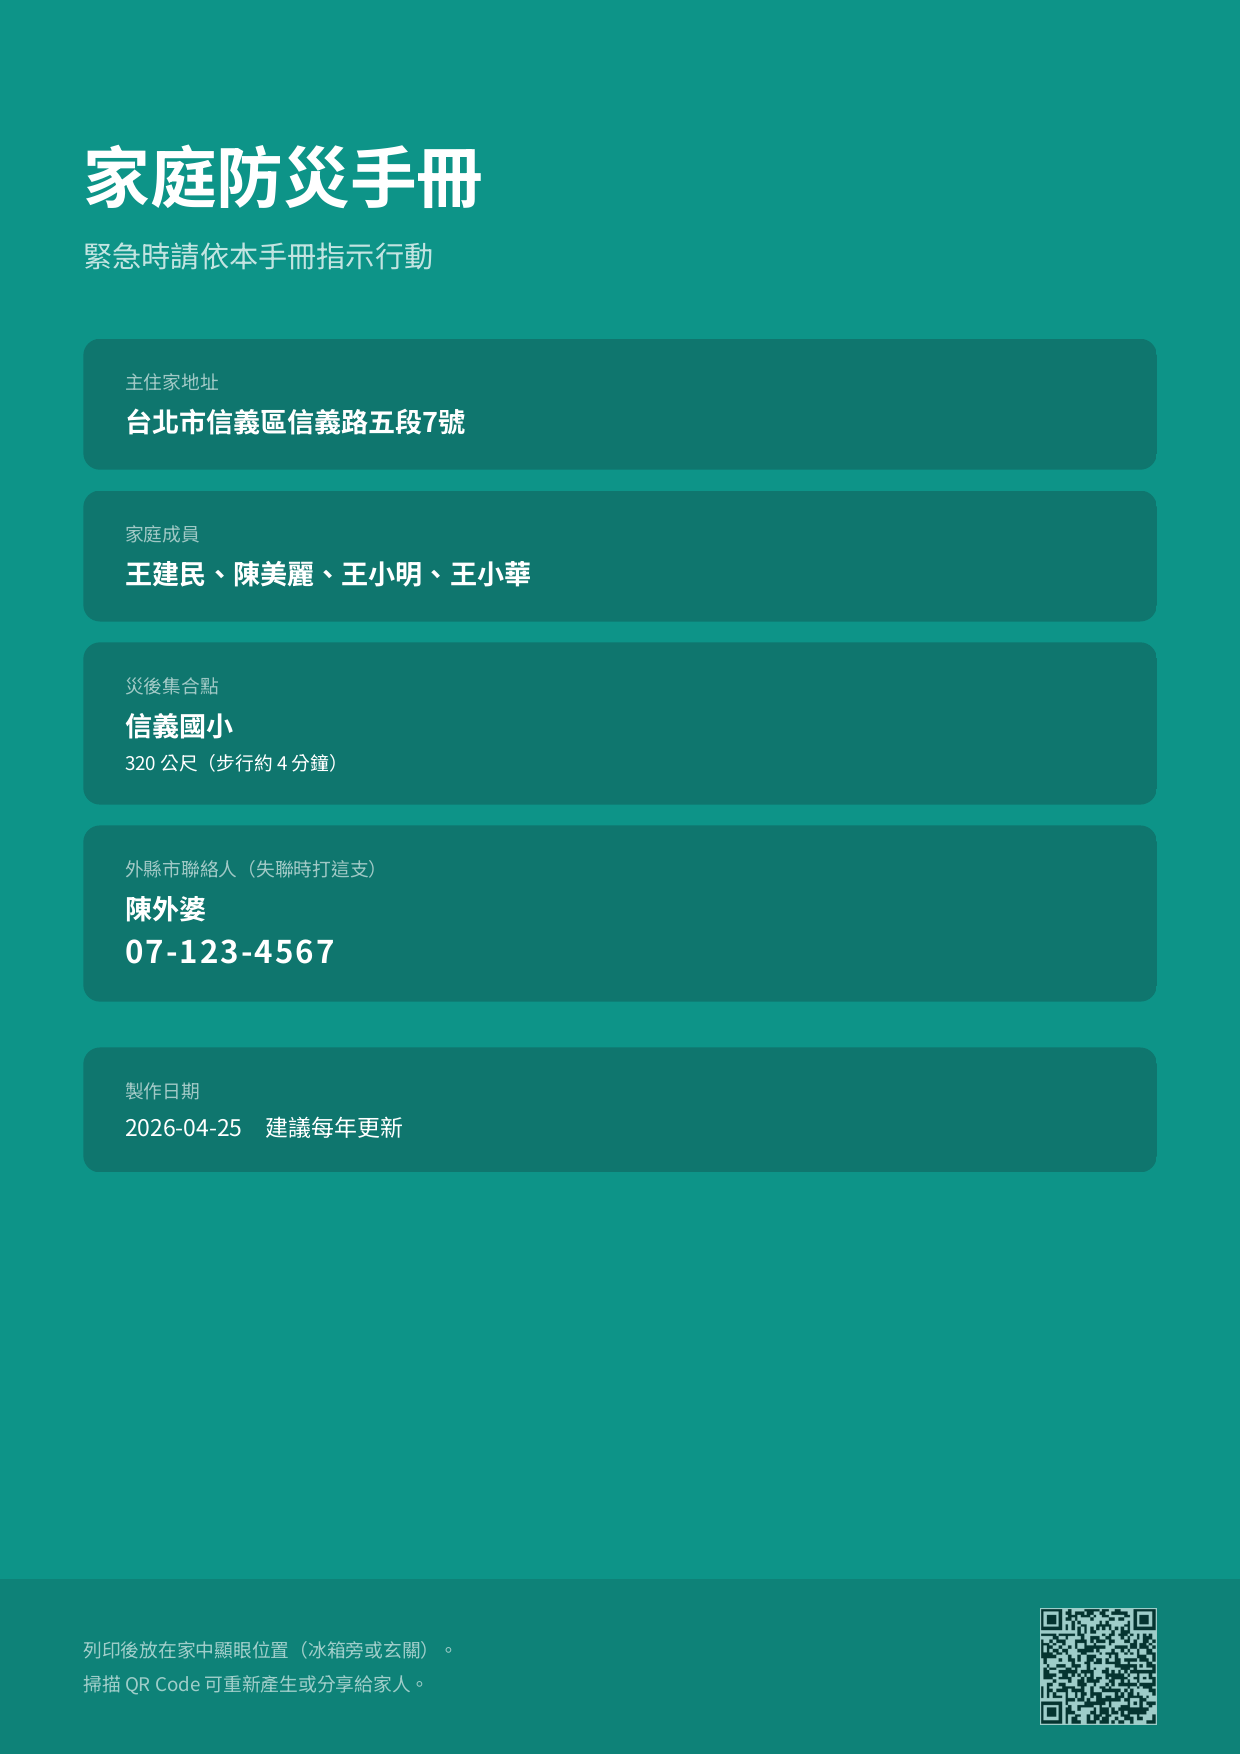
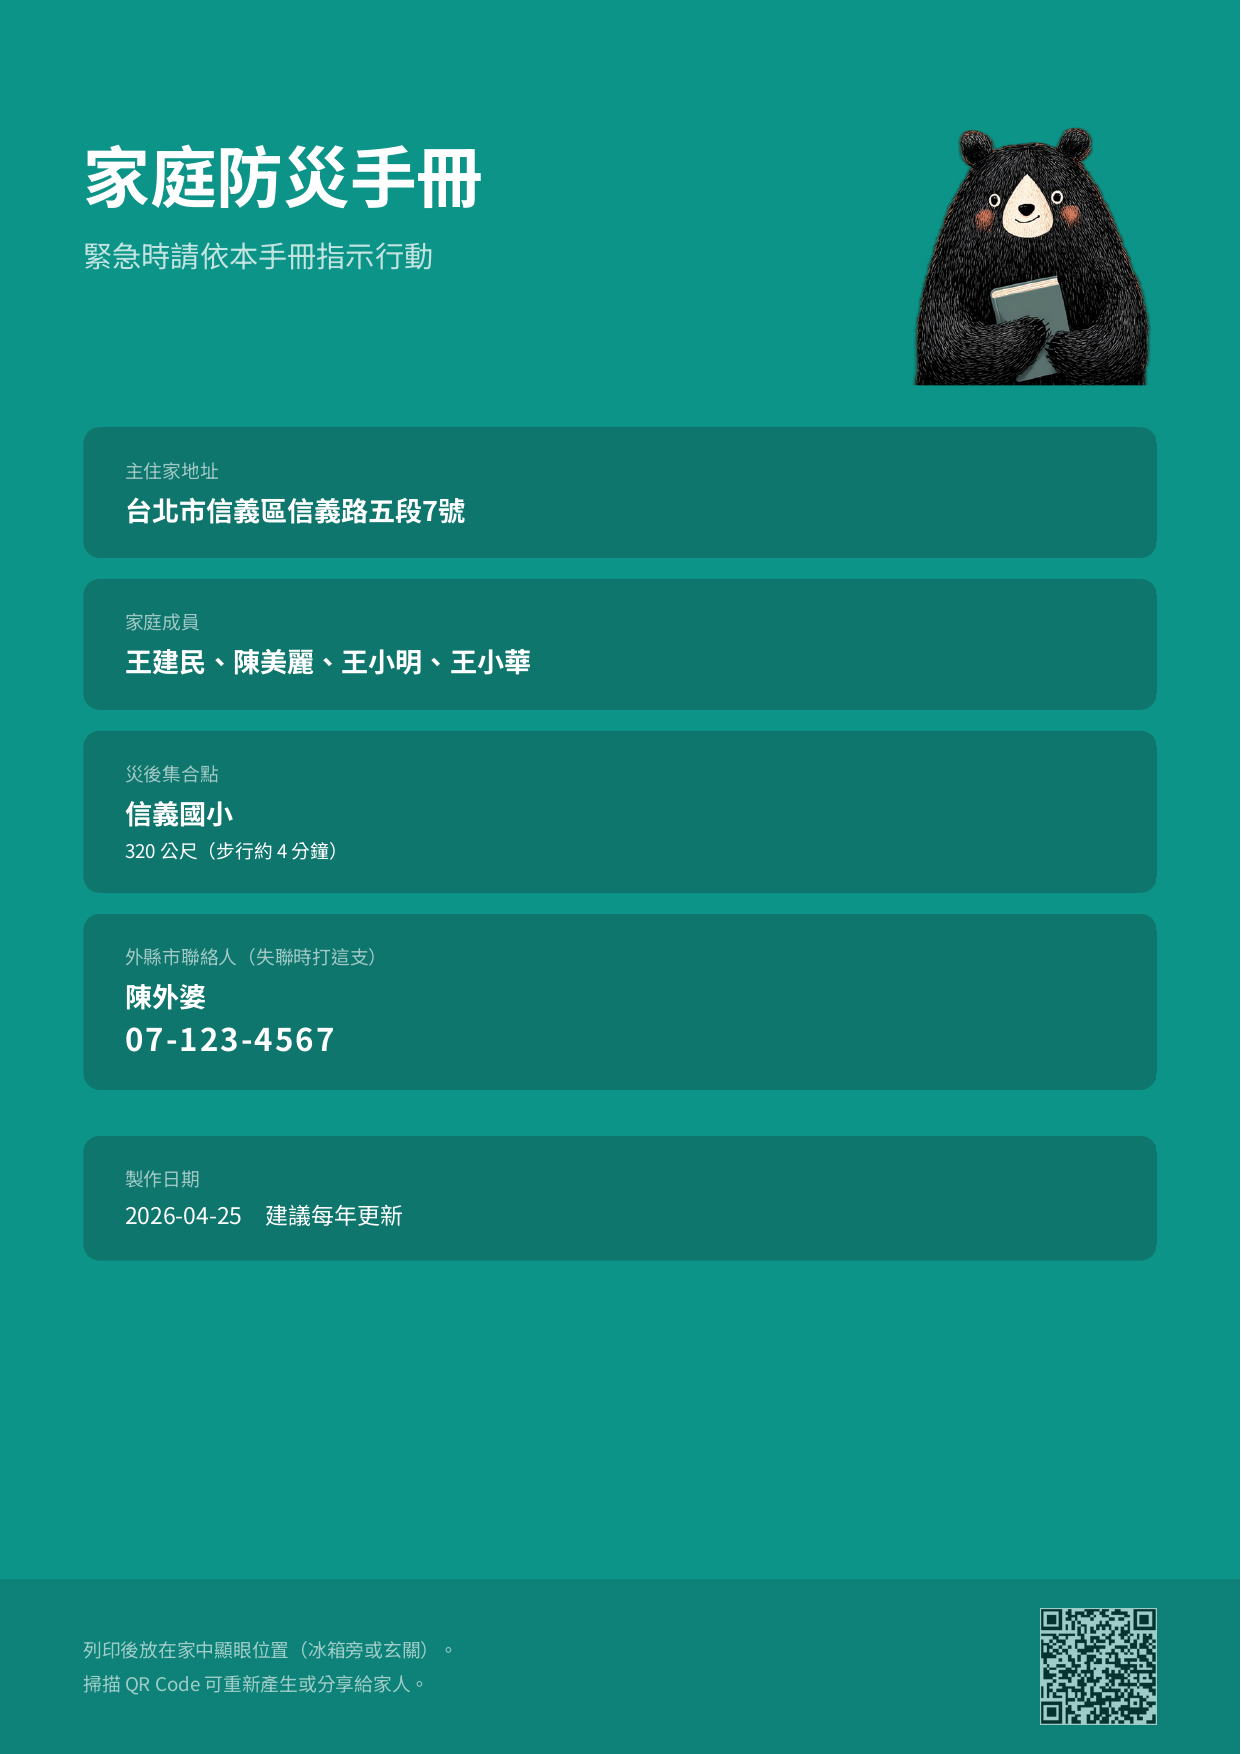
feat(pdf): Phase-2a #1 — Formosan black bear mascot on cover top-right
The PDF cover was text-only with ~30% empty space below the info boxes and
no brand anchor; visitors see the homepage bear but the downloaded handbook
had no matching identity.

- Background removed from the orange banner via rembg, cropped to the bear,
  scaled to 400px PNG (~280KB)
- Placed top-right of the cover as a 120×125pt badge alongside the title,
  not a full-width banner — reads as logo, keeps room for future artwork
- heroImage prop added to HandbookPDF; client passes the URL, scripts read
  from disk as Buffer
- pdftoppm now writes 2-digit page numbers in newer poppler, so the preview
  script finds the produced PNG by readdir instead of hard-coded filename

Changed region(s): [[0.0612, 0.0616, 0.9492, 0.7389]]

diff --git a/scripts/_review-gen-pages.tsx b/scripts/_review-gen-pages.tsx
@@ -1,21 +1,6 @@
-/**
- * Build-time PDF preview generator.
- *
- * Renders the first page (cover) of HandbookPDF with a fixed Taipei-Xinyi
- * sample household, then rasterizes it to `public/pdf-preview.png`.
- * Run manually after any PDF visual change:
- *   npm run gen:pdf-preview
- */
 import { createElement, type ReactElement } from "react";
 import { renderToBuffer, type DocumentProps } from "@react-pdf/renderer";
-import {
-  writeFile,
-  rename,
-  unlink,
-  mkdtemp,
-  readFile,
-  readdir,
-} from "node:fs/promises";
+import { writeFile, mkdtemp, readFile } from "node:fs/promises";
 import { execFile } from "node:child_process";
 import { promisify } from "node:util";
 import path from "node:path";
@@ -39,7 +24,7 @@ const members: Member[] = [
     dailyLocation: "信義區上班",
     dailyCity: "台北市",
     dailyDistrict: "信義區",
-    dailyAddress: "信義路五段7號",
+    dailyAddress: "",
     hasDifferentAddress: false,
     city: "",
     district: "",
@@ -51,8 +36,8 @@ const members: Member[] = [
     birthYear: 1987,
     bloodType: "A",
     isMobilityImpaired: false,
-    hasChronic: false,
-    medications: "",
+    hasChronic: true,
+    medications: "降血壓",
     allergies: "",
     specialNeeds: "",
     dailyLocation: "大安區上班",
@@ -74,7 +59,7 @@ const members: Member[] = [
     medications: "",
     allergies: "",
     specialNeeds: "",
-    dailyLocation: "信義國小上學",
+    dailyLocation: "信義國小",
     dailyCity: "台北市",
     dailyDistrict: "信義區",
     dailyAddress: "",
@@ -103,7 +88,6 @@ const members: Member[] = [
     address: "",
   },
 ];
-
 const contacts: EmergencyContact[] = [
   {
     name: "陳外婆",
@@ -121,7 +105,6 @@ const contacts: EmergencyContact[] = [
     isOutOfCity: false,
   },
 ];
-
 const sample: HandbookData = {
   household: {
     address: "信義路五段7號",
@@ -194,6 +177,45 @@ const sample: HandbookData = {
           phone: "02-2786-1288",
           distance: 2400,
         },
+        {
+          name: "信義診所",
+          address: "台北市信義區信義路五段100號",
+          lat: 25.034,
+          lng: 121.568,
+          type: "clinic",
+          hasER: false,
+          phone: "02-2345-6789",
+          distance: 400,
+        },
+      ],
+      aed: [
+        {
+          name: "台北101",
+          address: "台北市信義區信義路五段7號",
+          lat: 25.0336,
+          lng: 121.5645,
+          location: "1樓大廳服務台",
+          phone: "02-8101-8800",
+          distance: 50,
+        },
+      ],
+      fireStation: [
+        {
+          name: "信義分隊",
+          address: "台北市信義區松仁路79號",
+          phone: "02-2758-7119",
+          city: "台北市",
+          distance: 500,
+        },
+      ],
+      policeStation: [
+        {
+          name: "信義分局",
+          address: "台北市信義區基隆路一段126號",
+          phone: "02-2722-4252",
+          city: "台北市",
+          distance: 800,
+        },
       ],
     },
   ],
@@ -201,7 +223,6 @@ const sample: HandbookData = {
 };
 
 async function main() {
-  console.log("→ Rendering HandbookPDF to buffer...");
   const heroImage = await readFile(
     path.resolve("public/hero-bear-cutout-compact.png"),
   );
@@ -212,47 +233,15 @@ async function main() {
       heroImage,
     }) as ReactElement<DocumentProps>,
   );
-  console.log(`  PDF size: ${(pdfBuffer.length / 1024).toFixed(1)} KB`);
-
-  const tmpDir = await mkdtemp(path.join(os.tmpdir(), "pdf-preview-"));
+  console.log(`PDF size: ${(pdfBuffer.length / 1024).toFixed(1)} KB`);
+  const tmpDir = await mkdtemp(path.join(os.tmpdir(), "pdf-review-"));
   const pdfPath = path.join(tmpDir, "handbook.pdf");
-  const pngPrefix = path.join(tmpDir, "cover");
   await writeFile(pdfPath, pdfBuffer);
-
-  console.log("→ Rasterizing page 1 via pdftoppm (poppler)...");
-  try {
-    // -r 150 → ~1240px A4 width; -f 1 -l 1 → first page only
-    const { stdout, stderr } = await execFileP("pdftoppm", [
-      "-png",
-      "-r",
-      "150",
-      "-f",
-      "1",
-      "-l",
-      "1",
-      pdfPath,
-      pngPrefix,
-    ]);
-    if (stdout) console.log("  stdout:", stdout);
-    if (stderr) console.log("  stderr:", stderr);
-  } catch (err) {
-    throw new Error(
-      "pdftoppm failed. Install poppler: `brew install poppler` (macOS) or equivalent.\n" +
-        (err instanceof Error ? err.message : String(err)),
-    );
-  }
-
-  // pdftoppm numbering format varies by version (e.g., `cover-1.png` vs `cover-01.png`),
-  // so find whatever single PNG landed in the temp dir.
-  const produced = (await readdir(tmpDir)).find((f) => f.endsWith(".png"));
-  if (!produced) throw new Error(`pdftoppm produced no PNG in ${tmpDir}`);
-  const outPath = path.resolve("public/pdf-preview.png");
-  await rename(path.join(tmpDir, produced), outPath);
-  await unlink(pdfPath);
-  console.log(`✓ Wrote ${outPath}`);
+  const outPrefix = path.resolve(".design-review-20260424/pdf-pages/page");
+  await execFileP("pdftoppm", ["-png", "-r", "110", pdfPath, outPrefix]);
+  console.log("Done. See .design-review-20260424/pdf-pages/");
 }
-
-main().catch((err) => {
-  console.error("Failed to generate PDF preview:", err);
+main().catch((e) => {
+  console.error(e);
   process.exit(1);
 });

diff --git a/components/pdf/HandbookPDF.tsx b/components/pdf/HandbookPDF.tsx
@@ -119,7 +119,7 @@ const s = StyleSheet.create({
     color: "#ffffff",
     marginBottom: 6,
   },
-  coverSub: { fontSize: 14, color: "#ffffff", opacity: 0.75, marginBottom: 30 },
+  coverSub: { fontSize: 14, color: "#ffffff", opacity: 0.75, marginBottom: 20 },
   coverBox: {
     backgroundColor: "#0F766E",
     borderRadius: 8,
@@ -140,6 +140,14 @@ const s = StyleSheet.create({
     color: "#ffffff",
     opacity: 0.6,
   },
+  coverHeader: {
+    flexDirection: "row",
+    alignItems: "flex-start",
+    justifyContent: "space-between",
+    marginBottom: 20,
+  },
+  coverTitleBlock: { flex: 1, paddingRight: 12 },
+  coverHeroImage: { width: 120, height: 125 },
   // action card
   actionPage: {
     fontFamily: "NotoSansTC",
@@ -1070,10 +1078,12 @@ export default function HandbookPDF({
   data,
   mapImages,
   biMode = "zh",
+  heroImage,
 }: {
   data: HandbookData;
   mapImages?: Record<number, string>;
   biMode?: BiMode;
+  heroImage?: string | Uint8Array;
 }) {
   // eslint-disable-next-line react-hooks/globals -- @react-pdf/renderer renders synchronously; this is not a DOM re-render side effect
   _lang = biMode;
@@ -1097,23 +1107,31 @@ export default function HandbookPDF({
       {/* ─── PAGE 1: COVER ─── */}
       <Page size="A4" style={s.coverPage}>
         <View style={s.coverTop}>
-          <Text style={s.coverTitle}>{pt(biMode, "cover_title")}</Text>
-          {biMode === "bi" && (
-            <Text
-              style={[
-                s.coverSub,
-                { fontSize: 18, fontWeight: "bold", marginBottom: 4 },
-              ]}
-            >
-              Family Emergency Handbook
-            </Text>
-          )}
-          <Text style={s.coverSub}>{pt(biMode, "cover_sub")}</Text>
-          {biMode === "bi" && (
-            <Text style={[s.coverSub, { fontSize: 10 }]}>
-              {ptEn("cover_sub")}
-            </Text>
-          )}
+          <View style={s.coverHeader}>
+            <View style={s.coverTitleBlock}>
+              <Text style={s.coverTitle}>{pt(biMode, "cover_title")}</Text>
+              {biMode === "bi" && (
+                <Text
+                  style={[
+                    s.coverSub,
+                    { fontSize: 18, fontWeight: "bold", marginBottom: 4 },
+                  ]}
+                >
+                  Family Emergency Handbook
+                </Text>
+              )}
+              <Text style={s.coverSub}>{pt(biMode, "cover_sub")}</Text>
+              {biMode === "bi" && (
+                <Text style={[s.coverSub, { fontSize: 10 }]}>
+                  {ptEn("cover_sub")}
+                </Text>
+              )}
+            </View>
+            {heroImage && (
+              /* eslint-disable-next-line jsx-a11y/alt-text -- react-pdf Image has no alt prop */
+              <Image src={heroImage} style={s.coverHeroImage} />
+            )}
+          </View>
           <View style={s.coverBox}>
             <Text style={s.coverBoxLabel}>
               {pt(biMode, "cover_addr")}

diff --git a/app/handbook/page.tsx b/app/handbook/page.tsx
@@ -349,6 +349,7 @@ export default function HandbookPage() {
                     data={data}
                     mapImages={mapImages}
                     biMode={biMode}
+                    heroImage="/hero-bear-cutout-compact.png"
                   />
                 }
                 fileName={fileName}
